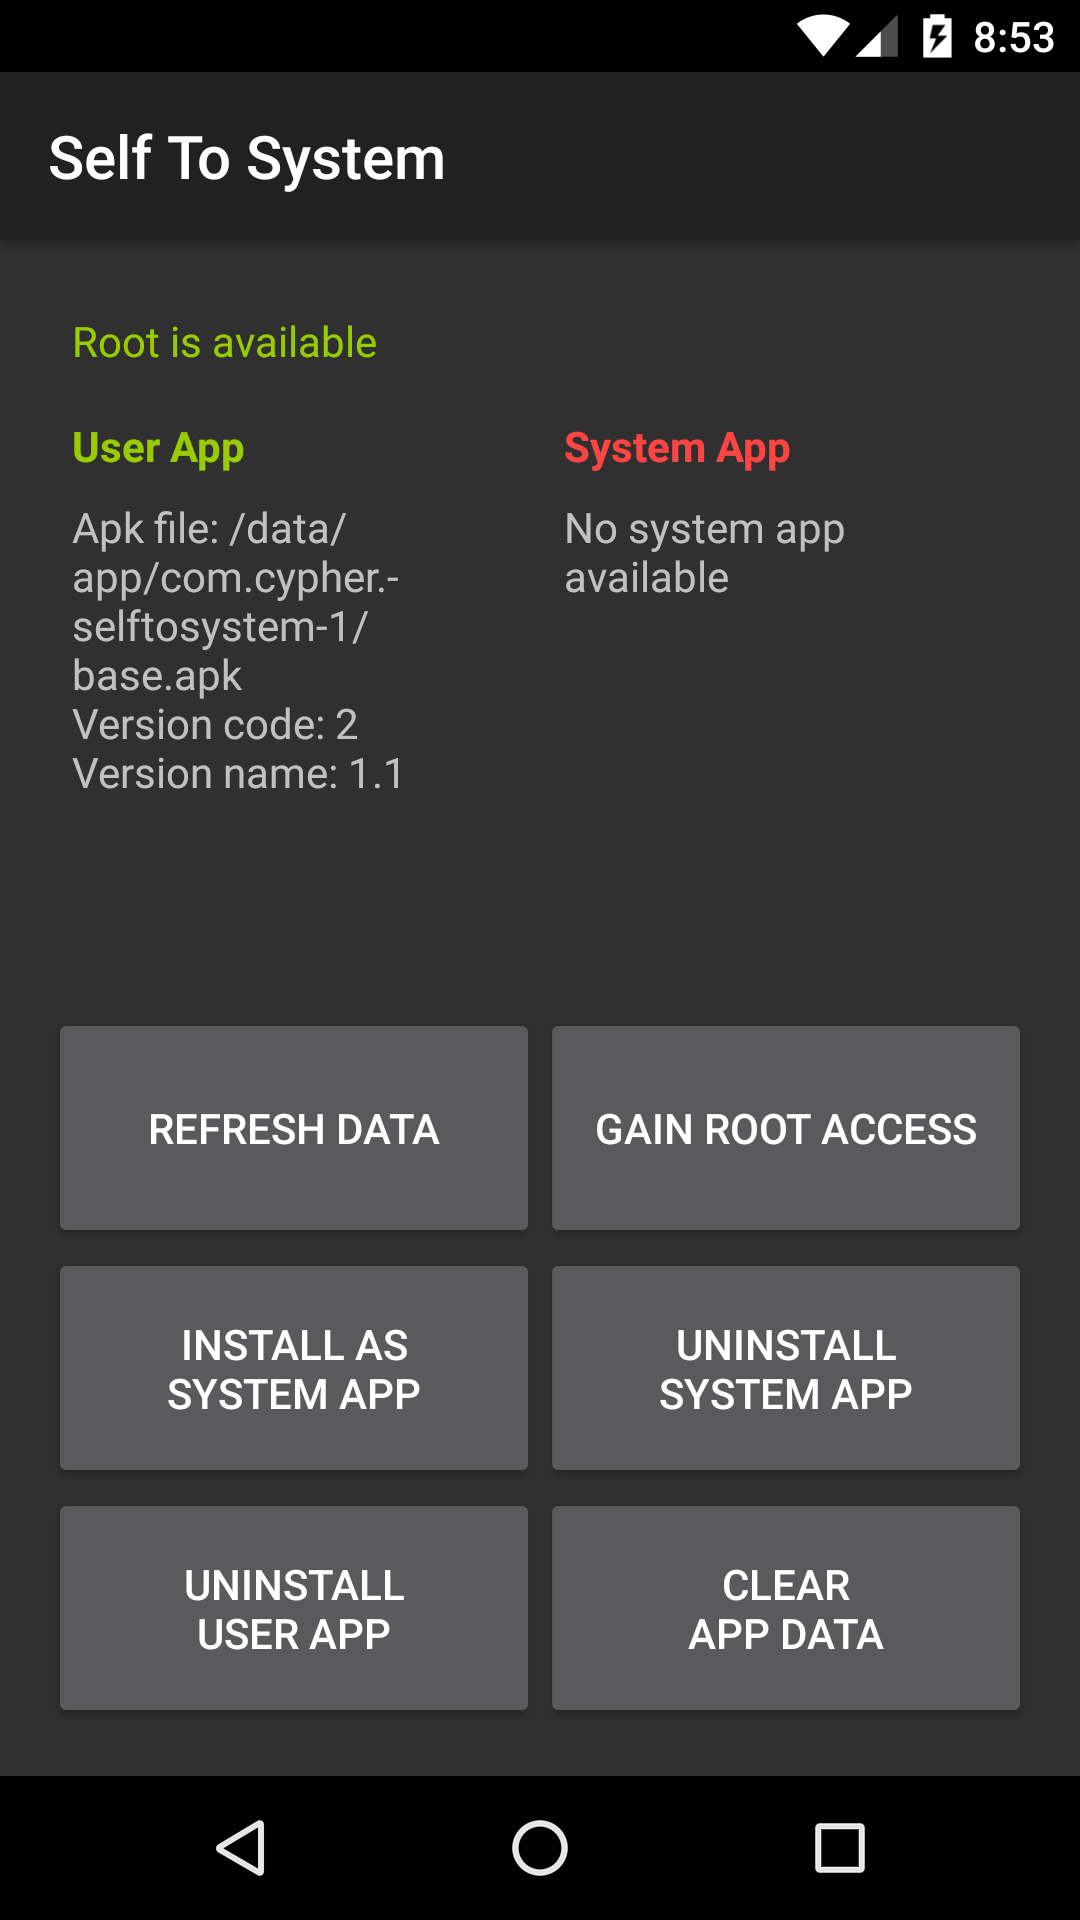
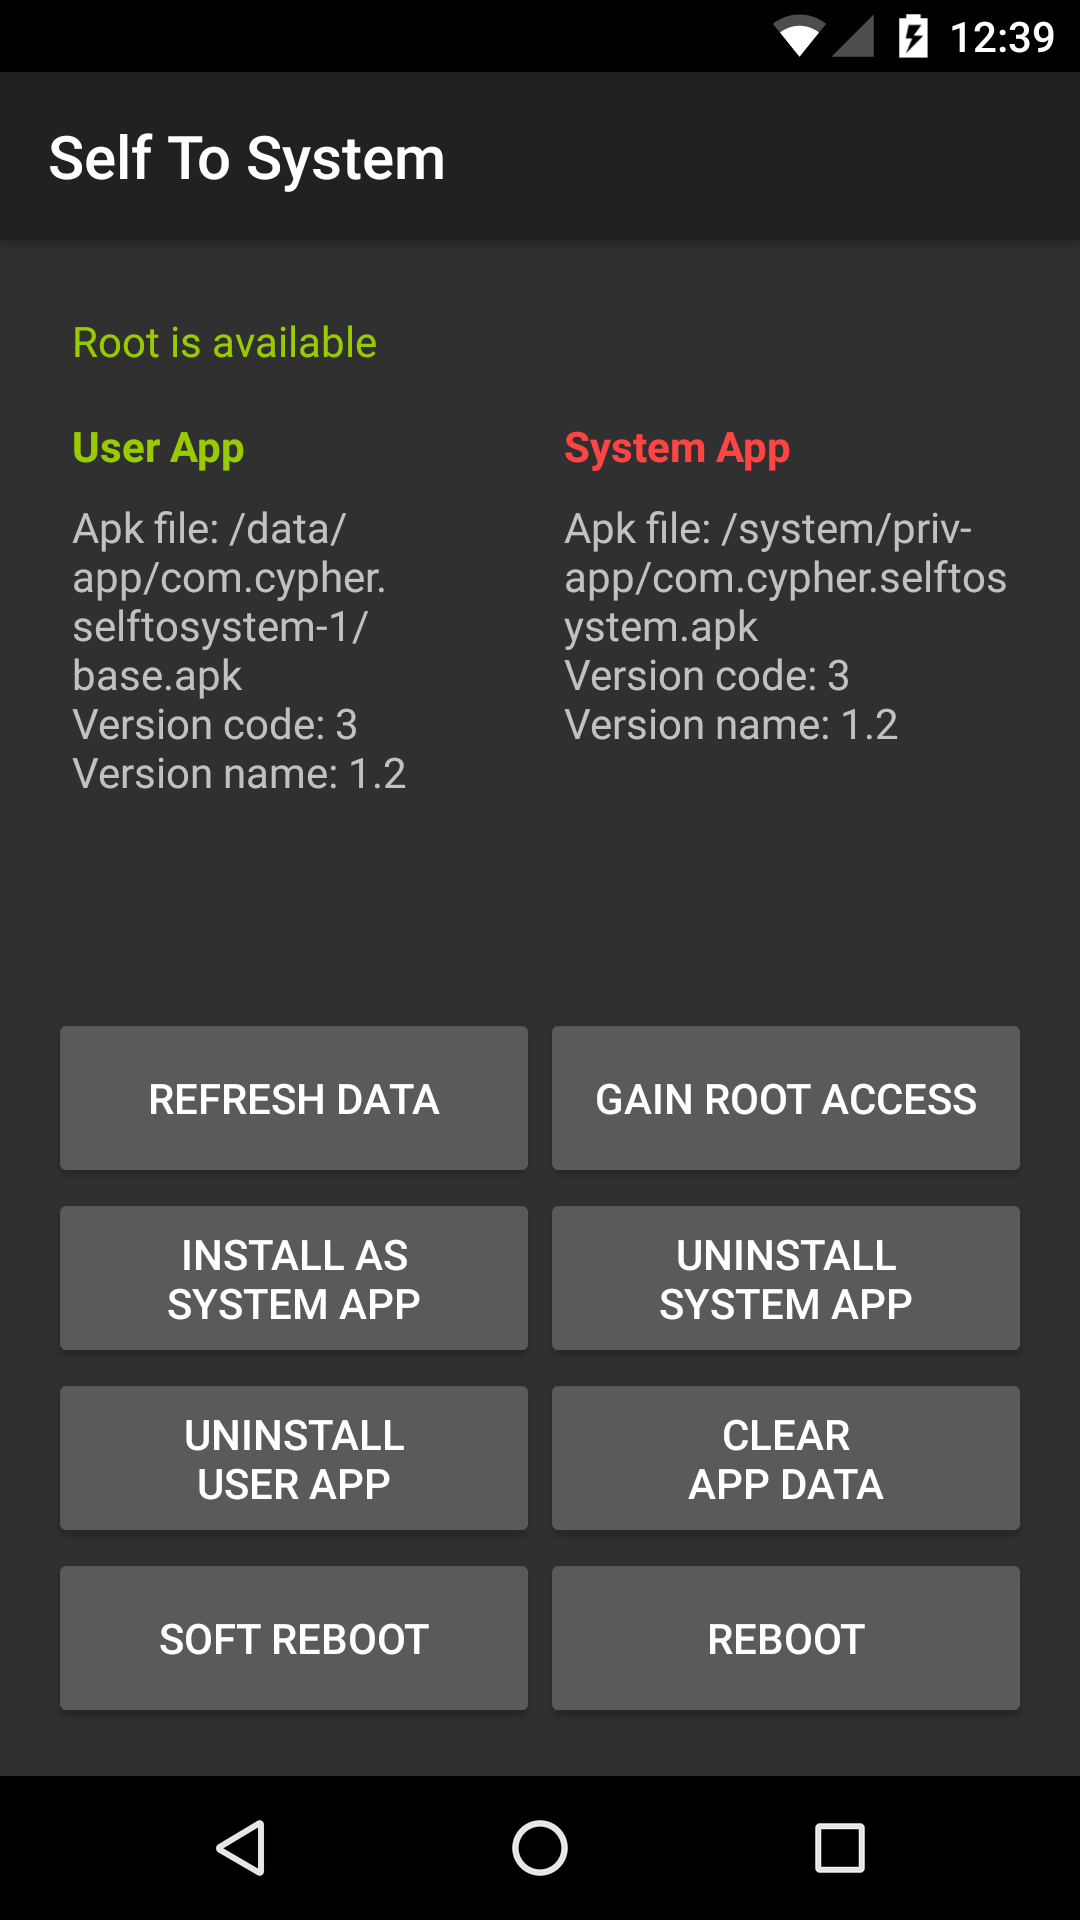
Self To System v1.2, added reboot buttons, more source code documentation

Changed region(s): [[0.0306, 0.5625, 0.9472, 0.875], [0.5194, 0.25, 0.9472, 0.4062], [0.7028, 0.0, 0.9778, 0.0312]]

diff --git a/SelfToSystem/app/src/main/java/com/cypher/selftosystem/MainActivity.java b/SelfToSystem/app/src/main/java/com/cypher/selftosystem/MainActivity.java
@@ -10,10 +10,17 @@ import android.os.Bundle;
 import android.os.Handler;
 import android.os.Looper;
 import android.os.Message;
+import android.util.Log;
 import android.view.View;
 import android.widget.Button;
 import android.widget.TextView;
 import com.cypher.selftosystem.SystemAppUtilities.SystemAppUtilitiesException;
+import com.stericson.RootShell.exceptions.RootDeniedException;
+import com.stericson.RootShell.execution.Command;
+import com.stericson.RootTools.RootTools;
+
+import java.io.IOException;
+import java.util.concurrent.TimeoutException;
 
 public class MainActivity extends Activity {
 	public static final String TAG = "SelfToSystem";
@@ -43,6 +50,8 @@ public class MainActivity extends Activity {
 		Button btn_uninstallSystemApp = (Button) findViewById(R.id.btn_uninstallSystemApp);
 		Button btn_uninstallUserApp = (Button) findViewById(R.id.btn_uninstallUserApp);
 		Button btn_clearAppData = (Button) findViewById(R.id.btn_clearAppData);
+		Button btn_softReboot = (Button) findViewById(R.id.btn_softReboot);
+		Button btn_reboot = (Button) findViewById(R.id.btn_reboot);
 
 		btn_refreshData.setOnClickListener(new View.OnClickListener() {
 			@Override
@@ -118,6 +127,24 @@ public class MainActivity extends Activity {
 					} catch (SystemAppUtilitiesException e) {
 						errorDialog(e.getMessage());
 					}
+				}
+			}
+		});
+
+		btn_softReboot.setOnClickListener(new View.OnClickListener() {
+			@Override
+			public void onClick(View view) {
+				if (blockingOkCancelDialog(getString(R.string.msg_header_info), getString(R.string.msg_reboot))) {
+					SystemAppUtilities.rebootDevice(MainActivity.this, true);
+				}
+			}
+		});
+
+		btn_reboot.setOnClickListener(new View.OnClickListener() {
+			@Override
+			public void onClick(View view) {
+				if (blockingOkCancelDialog(getString(R.string.msg_header_info), getString(R.string.msg_reboot))) {
+					SystemAppUtilities.rebootDevice(MainActivity.this, false);
 				}
 			}
 		});

diff --git a/SelfToSystem/app/src/main/java/com/cypher/selftosystem/SystemAppUtilities.java b/SelfToSystem/app/src/main/java/com/cypher/selftosystem/SystemAppUtilities.java
@@ -39,11 +39,20 @@ public class SystemAppUtilities {
 		String subfolder = "";
 		String apkName = BuildConfig.APPLICATION_ID + ".apk";
 
-		if (android.os.Build.VERSION.SDK_INT < 18) { // Android 4.2: API 17, Android 4.3: API 18 (first with priv-app)
+		// Android 4.3: API 18, some say this already had the priv-app folder, but at least Genymotion does not
+		// Android 4.4: API 19, first version that definitely had a priv-app folder
+		// This configuration might cause your app to land in /system/app even though there is a /system/priv-app folder.
+		// Depending on what your app should be capable of, this may or may not be a problem.
+		// Hopefully no one uses Android 4.3 Jelly Bean anymore anyway.
+		if (android.os.Build.VERSION.SDK_INT < 19) {
 			systemAppsPath = "/system/app/";
 		}
 
-		if (android.os.Build.VERSION.SDK_INT < 20) { // Android 4.4: API 19, Android 5.0: API 21 (first with subfolders for apps)
+		// Android 4.4: API 19
+		// Android Wear: API 20, not supported/tested
+		// Android 5.0: API 21, first version with subfolders for apps
+		// You can uncomment this block and hard-code the appName, but this is not mandatory for SystemAppUtilities to work.
+		if (android.os.Build.VERSION.SDK_INT < 20) {
 			// TODO: Create subfolder for system app? Not necessary, but would be nice.
 			//String appName = ; // TODO: We should use the app name, but how to get it without the context?
 			//subfolder = appName + "/";
@@ -589,7 +598,7 @@ public class SystemAppUtilities {
 	 * @param context app context
 	 * @param softReboot decides whether doing a soft or complete reboot
 	 */
-	private static void rebootDevice(final Context context, final boolean softReboot) {
+	public static void rebootDevice(final Context context, final boolean softReboot) {
 		AsyncTask<Void, Void, Boolean> task = new AsyncTask<Void, Void, Boolean>() {
 			ProgressDialog progress = null;
 
